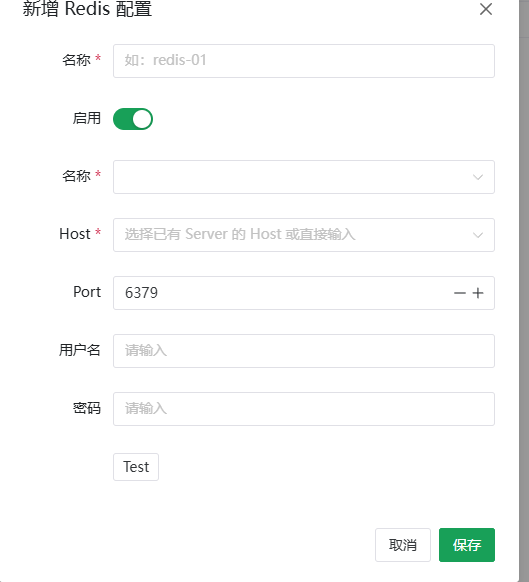
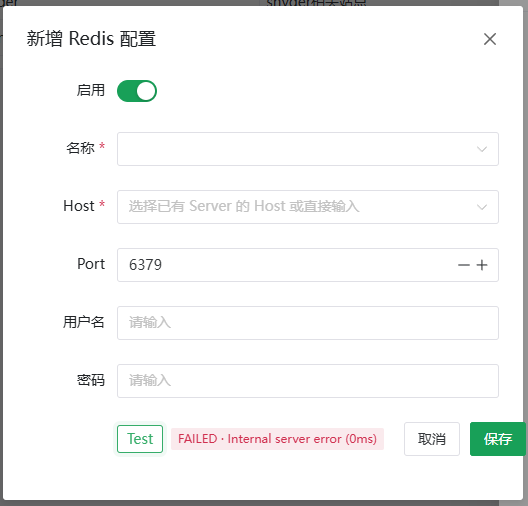
ui(resource-modal): enable-switch placement, name placeholder, actions spacing
- enable switch now sits right under the NAME field for all types:
  servers = name input -> enable; redis/mq/robots = name dropdown ->
  enable (inserted before fields[1])
- name dropdown placeholder fixed to '选择已有 Server 的名称或直接输入'
  (was conditionally blank)
- cancel/save moved to their own row 34px below the test row (~one
  button height of whitespace, no more crowding)

diff --git a/frontend/src/modules/sites/ResourceEditModal.vue b/frontend/src/modules/sites/ResourceEditModal.vue
@@ -156,15 +156,17 @@ async function save() {
       <n-form-item v-if="props.target?.type === 'servers'" label="名称" required>
         <n-input v-model:value="form.name" placeholder="如：server-01" />
       </n-form-item>
-      <n-form-item label="启用">
+      <n-form-item v-if="props.target?.type === 'servers'" label="启用">
         <n-switch v-model:value="form.enabled" :default-value="true" />
       </n-form-item>
-      <n-form-item
-        v-for="f in fields"
-        :key="f.key"
-        :label="f.label"
-        :required="f.required"
-      >
+      <template v-for="(f, fi) in fields" :key="f.key">
+        <n-form-item v-if="fi === 1 && props.target?.type !== 'servers'" label="启用">
+          <n-switch v-model:value="form.enabled" :default-value="true" />
+        </n-form-item>
+        <n-form-item
+          :label="f.label"
+          :required="f.required"
+        >
         <n-input-number
           v-if="f.kind === 'number'"
           v-model:value="form[f.key]"
@@ -178,7 +180,7 @@ async function save() {
           tag
           default-first-option
           :options="props.target?.nameOptions ?? []"
-          :placeholder="(props.target?.nameOptions ?? []).length ? '选择已有 Server 的名称或直接输入' : '输入名称'"
+          placeholder="选择已有 Server 的名称或直接输入"
         />
         <n-select
           v-else-if="f.kind === 'base-url-select'"
@@ -201,14 +203,18 @@ async function save() {
           :placeholder="(props.target?.hostOptions ?? []).length ? '选择已有 Server 的 Host 或直接输入' : '输入地址'"
         />
         <n-input v-else v-model:value="form[f.key]" />
-      </n-form-item>
+        </n-form-item>
+      </template>
       <n-form-item label=" ">
         <div class="form-test">
           <resource-test-button :type="TEST_TYPE[props.target?.type ?? 'servers'] ?? 'server'" :config="form" />
           <span v-if="props.target?.type === 'mq'" class="hint">
             平台经 Jolokia HTTP(8161) 读取管理数据
           </span>
-          <div style="flex: 1" />
+        </div>
+      </n-form-item>
+      <n-form-item label=" ">
+        <div class="form-actions">
           <n-button @click="emit('update:show', false)">取消</n-button>
           <n-button type="primary" :loading="saving" @click="save">保存</n-button>
         </div>
@@ -223,6 +229,13 @@ async function save() {
   align-items: center;
   gap: 10px;
   width: 100%;
+}
+.form-actions {
+  display: flex;
+  justify-content: flex-end;
+  gap: 10px;
+  width: 100%;
+  margin-top: 34px; /* 与 Test 行隔约一个按钮高度的留白 */
 }
 .hint {
   color: #999;
